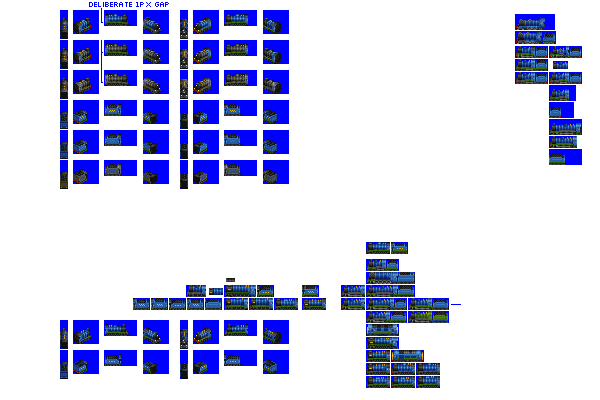
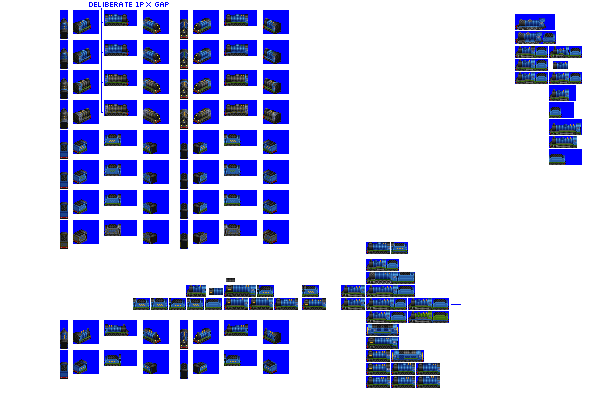
Change: additional banger blue livery for Strongbow

diff --git a/src/vehicles/strongbow.py b/src/vehicles/strongbow.py
@@ -15,9 +15,8 @@ def main(roster_id):
         tractive_effort_coefficient=0.18,
         gen=3,
         fixed_run_cost_points=120,  # give a bonus so this can be a genuine mixed-traffic engine
-        additional_liveries=["SWOOSH", "FREIGHT_BLACK"],
+        additional_liveries=["BANGER_BLUE", "SWOOSH", "FREIGHT_BLACK"],
         sprites_complete=True,
-        sprites_additional_liveries_needed=True, # banger blue?
     )
 
     consist.add_unit(type=SteamEngineUnit, weight=96, vehicle_length=6, spriterow_num=0)
